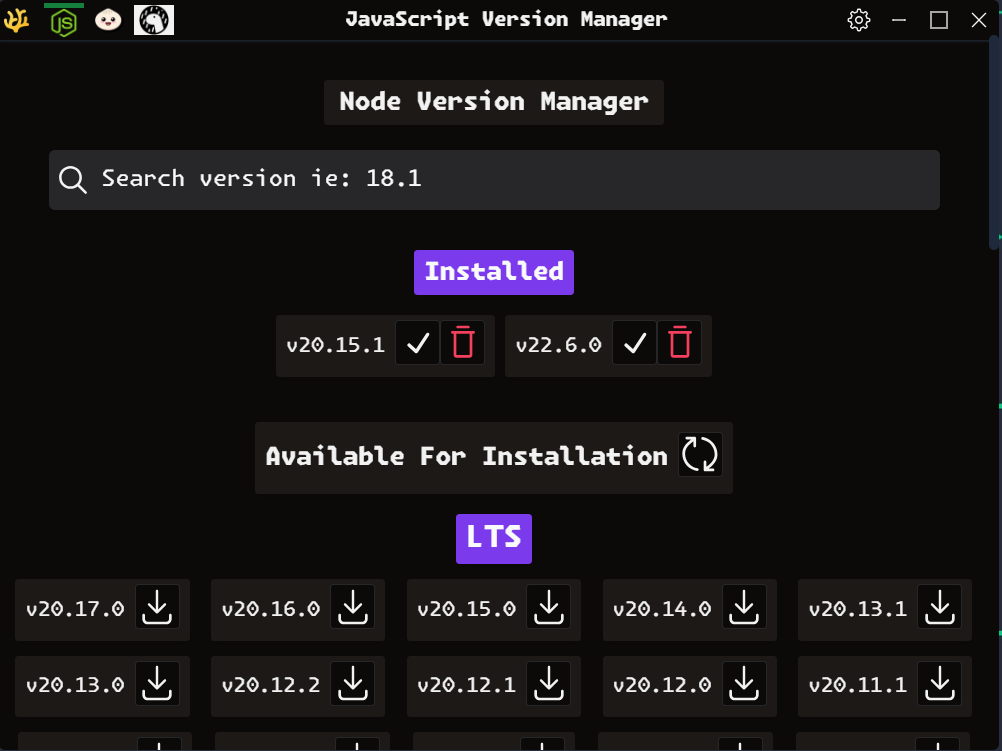
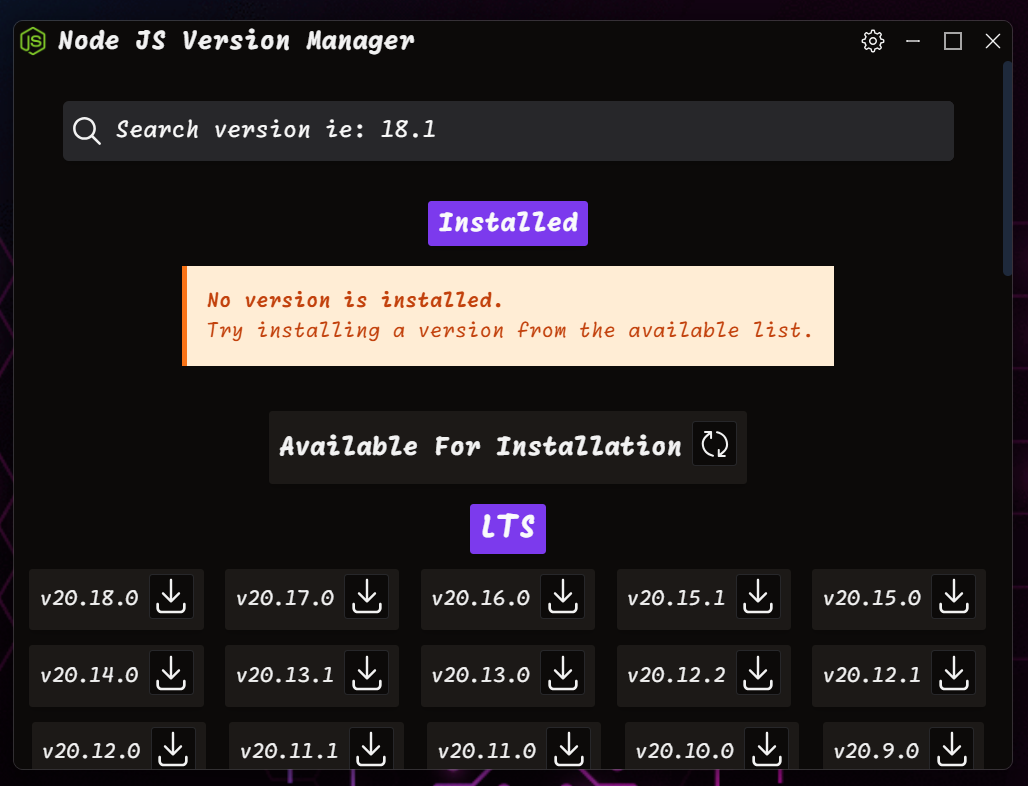
📝docs: update readme image and feature list

diff --git a/README.md b/README.md
@@ -6,7 +6,9 @@
 
 > [!NOTE]
 >
-> ### [Download For Windows From Here](https://github.com/Ulrich-Tonmoy/vm/releases)
+> [Download For Windows From Here](https://github.com/Ulrich-Tonmoy/vm/releases)
+>
+> [nvm-desktop (Better alternative)](https://github.com/1111mp/nvm-desktop)
 
 <div  align="center">
     <img src="./docs/vm.png" alt="Version Manager"/>
@@ -17,6 +19,8 @@
 - [x] Show LTS, Current, Stable and Unstable old available Node Version.
 - [x] Download/install Multiple Node versions.
 - [x] Change Node version from the installed/downloaded version.
+- [x] Change Theme dark/light/system
+- [x] Change font Monaspace {Argon, Krypton, Neon, Radon, Xenon}
 
 ### Technologies
 
@@ -54,5 +58,3 @@ AppData/Roaming/Version Manager/
 ├── version-list.json
 └── config.json
 ```
-
-<!-- https://github.com/1111mp/nvm-desktop -->
